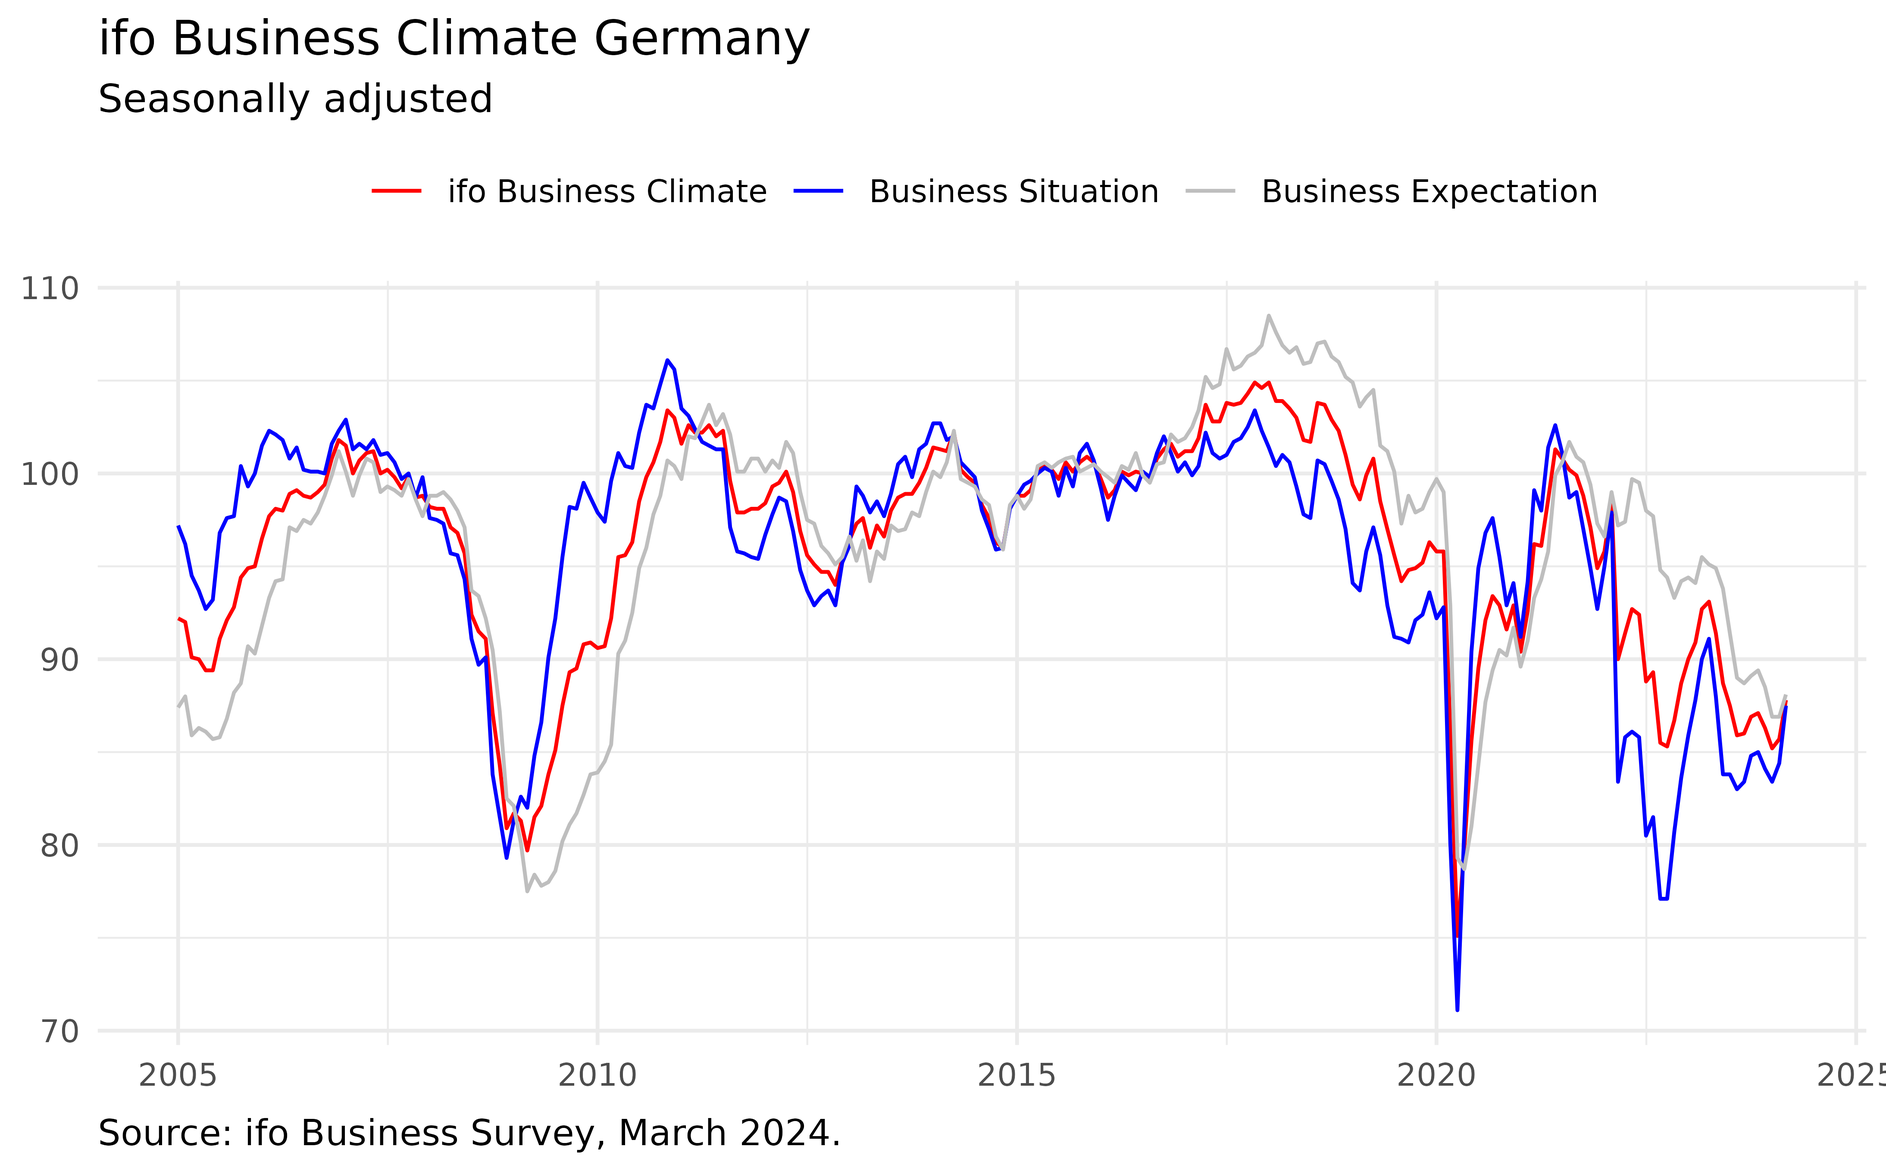
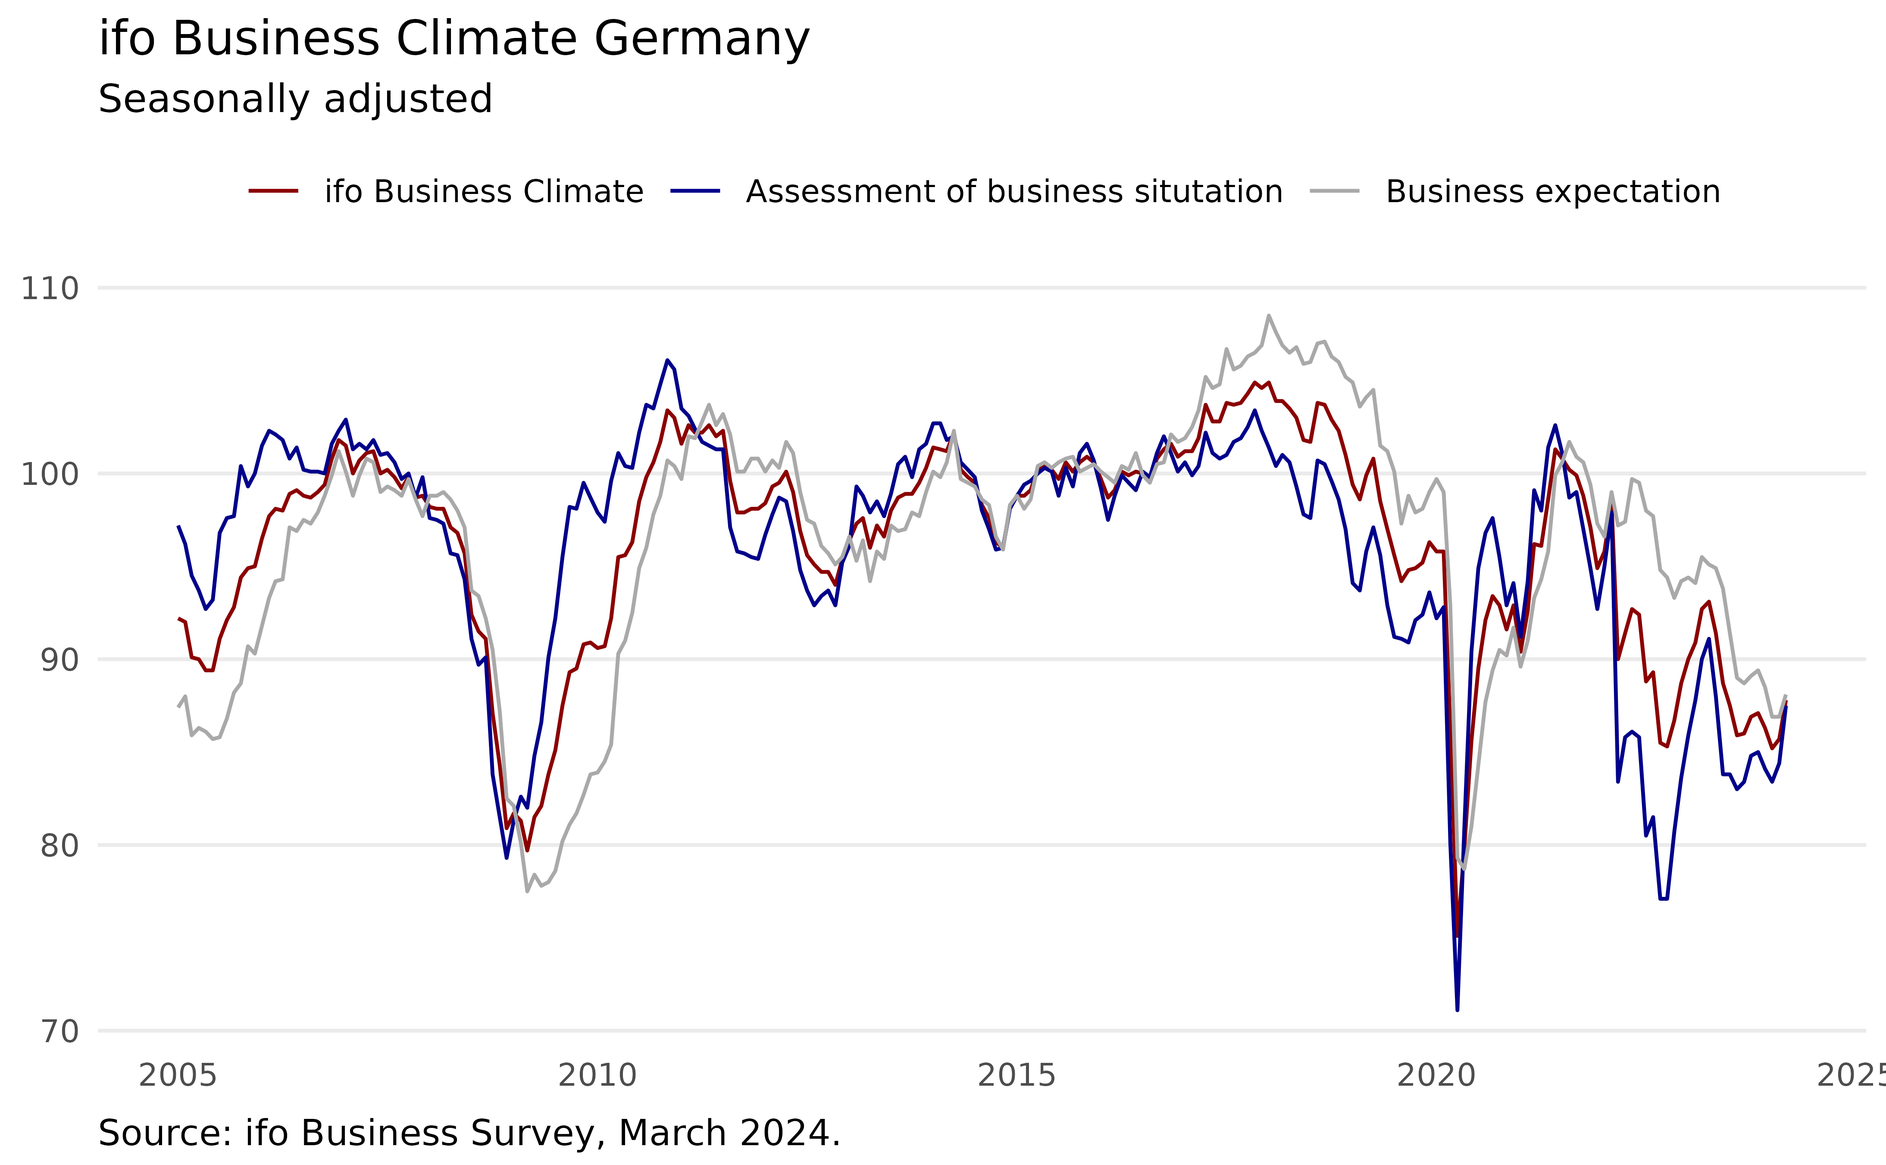
Deploying to gh-pages from @ m-muecke/ifo@aacef5574b08105158f8963b002d48281598b1bf 🚀

diff --git a/articles/publication.html b/articles/publication.html
@@ -80,9 +80,9 @@
 
     
     
-<div class="section level2">
-<h2 id="ifo-business-climate-germany">ifo Business Climate Germany<a class="anchor" aria-label="anchor" href="#ifo-business-climate-germany"></a>
-</h2>
+<div class="section level3">
+<h3 id="ifo-business-climate-germany">ifo Business Climate Germany<a class="anchor" aria-label="anchor" href="#ifo-business-climate-germany"></a>
+</h3>
 <div class="sourceCode" id="cb1"><pre class="downlit sourceCode r">
 <code class="sourceCode R"><span><span class="kw"><a href="https://rdrr.io/r/base/library.html" class="external-link">library</a></span><span class="op">(</span><span class="va"><a href="https://dplyr.tidyverse.org" class="external-link">dplyr</a></span><span class="op">)</span></span>
 <span><span class="kw"><a href="https://rdrr.io/r/base/library.html" class="external-link">library</a></span><span class="op">(</span><span class="va"><a href="https://ggplot2.tidyverse.org" class="external-link">ggplot2</a></span><span class="op">)</span></span>
@@ -92,9 +92,7 @@
 <span></span>
 <span><span class="va">climate</span> <span class="op">|&gt;</span></span>
 <span>  <span class="fu"><a href="https://dplyr.tidyverse.org/reference/select.html" class="external-link">select</a></span><span class="op">(</span><span class="va">yearmonth</span>, <span class="fu"><a href="https://tidyselect.r-lib.org/reference/starts_with.html" class="external-link">ends_with</a></span><span class="op">(</span><span class="st">"index"</span><span class="op">)</span><span class="op">)</span> <span class="op">|&gt;</span></span>
-<span>  <span class="fu">tidyr</span><span class="fu">::</span><span class="fu"><a href="https://tidyr.tidyverse.org/reference/pivot_longer.html" class="external-link">pivot_longer</a></span><span class="op">(</span><span class="op">-</span><span class="va">yearmonth</span>,</span>
-<span>    names_to <span class="op">=</span> <span class="st">"component"</span>, values_to <span class="op">=</span> <span class="st">"value"</span></span>
-<span>  <span class="op">)</span> <span class="op">|&gt;</span></span>
+<span>  <span class="fu">tidyr</span><span class="fu">::</span><span class="fu"><a href="https://tidyr.tidyverse.org/reference/pivot_longer.html" class="external-link">pivot_longer</a></span><span class="op">(</span><span class="op">-</span><span class="va">yearmonth</span>, names_to <span class="op">=</span> <span class="st">"component"</span><span class="op">)</span> <span class="op">|&gt;</span></span>
 <span>  <span class="fu"><a href="https://dplyr.tidyverse.org/reference/mutate.html" class="external-link">mutate</a></span><span class="op">(</span>component <span class="op">=</span> <span class="fu"><a href="https://rdrr.io/r/base/grep.html" class="external-link">sub</a></span><span class="op">(</span><span class="st">"_index"</span>, <span class="st">""</span>, <span class="va">component</span>, fixed <span class="op">=</span> <span class="cn">TRUE</span><span class="op">)</span><span class="op">)</span> <span class="op">|&gt;</span></span>
 <span>  <span class="fu"><a href="https://ggplot2.tidyverse.org/reference/ggplot.html" class="external-link">ggplot</a></span><span class="op">(</span><span class="fu"><a href="https://ggplot2.tidyverse.org/reference/aes.html" class="external-link">aes</a></span><span class="op">(</span>x <span class="op">=</span> <span class="va">yearmonth</span>, y <span class="op">=</span> <span class="va">value</span>, color <span class="op">=</span> <span class="va">component</span><span class="op">)</span><span class="op">)</span> <span class="op">+</span></span>
 <span>  <span class="fu"><a href="https://ggplot2.tidyverse.org/reference/geom_path.html" class="external-link">geom_line</a></span><span class="op">(</span><span class="op">)</span> <span class="op">+</span></span>
@@ -102,7 +100,10 @@
 <span>  <span class="fu"><a href="https://ggplot2.tidyverse.org/reference/theme.html" class="external-link">theme</a></span><span class="op">(</span></span>
 <span>    legend.title <span class="op">=</span> <span class="fu"><a href="https://ggplot2.tidyverse.org/reference/element.html" class="external-link">element_blank</a></span><span class="op">(</span><span class="op">)</span>,</span>
 <span>    legend.position <span class="op">=</span> <span class="st">"top"</span>,</span>
-<span>    plot.caption <span class="op">=</span> <span class="fu"><a href="https://ggplot2.tidyverse.org/reference/element.html" class="external-link">element_text</a></span><span class="op">(</span>hjust <span class="op">=</span> <span class="fl">0</span>, vjust <span class="op">=</span> <span class="fl">0</span>, size <span class="op">=</span> <span class="fl">10</span><span class="op">)</span></span>
+<span>    plot.caption <span class="op">=</span> <span class="fu"><a href="https://ggplot2.tidyverse.org/reference/element.html" class="external-link">element_text</a></span><span class="op">(</span>hjust <span class="op">=</span> <span class="fl">0</span>, vjust <span class="op">=</span> <span class="fl">0</span>, size <span class="op">=</span> <span class="fl">10</span><span class="op">)</span>,</span>
+<span>    panel.grid.major.x <span class="op">=</span> <span class="fu"><a href="https://ggplot2.tidyverse.org/reference/element.html" class="external-link">element_blank</a></span><span class="op">(</span><span class="op">)</span>,</span>
+<span>    panel.grid.minor.x <span class="op">=</span> <span class="fu"><a href="https://ggplot2.tidyverse.org/reference/element.html" class="external-link">element_blank</a></span><span class="op">(</span><span class="op">)</span>,</span>
+<span>    panel.grid.minor.y <span class="op">=</span> <span class="fu"><a href="https://ggplot2.tidyverse.org/reference/element.html" class="external-link">element_blank</a></span><span class="op">(</span><span class="op">)</span></span>
 <span>  <span class="op">)</span> <span class="op">+</span></span>
 <span>  <span class="fu"><a href="https://ggplot2.tidyverse.org/reference/labs.html" class="external-link">labs</a></span><span class="op">(</span></span>
 <span>    title <span class="op">=</span> <span class="st">"ifo Business Climate Germany"</span>, subtitle <span class="op">=</span> <span class="st">"Seasonally adjusted"</span>,</span>
@@ -112,16 +113,71 @@
 <span>    <span class="op">)</span></span>
 <span>  <span class="op">)</span> <span class="op">+</span></span>
 <span>  <span class="fu"><a href="https://ggplot2.tidyverse.org/reference/scale_manual.html" class="external-link">scale_color_manual</a></span><span class="op">(</span></span>
-<span>    values <span class="op">=</span> <span class="fu"><a href="https://rdrr.io/r/base/c.html" class="external-link">c</a></span><span class="op">(</span>climate <span class="op">=</span> <span class="st">"red"</span>, situation <span class="op">=</span> <span class="st">"grey"</span>, expectation <span class="op">=</span> <span class="st">"blue"</span><span class="op">)</span>,</span>
+<span>    values <span class="op">=</span> <span class="fu"><a href="https://rdrr.io/r/base/c.html" class="external-link">c</a></span><span class="op">(</span>climate <span class="op">=</span> <span class="st">"darkred"</span>, situation <span class="op">=</span> <span class="st">"darkgrey"</span>, expectation <span class="op">=</span> <span class="st">"darkblue"</span><span class="op">)</span>,</span>
 <span>    labels <span class="op">=</span> <span class="fu"><a href="https://rdrr.io/r/base/c.html" class="external-link">c</a></span><span class="op">(</span></span>
-<span>      <span class="st">"ifo Business Climate"</span>, <span class="st">"Business Situation"</span>, <span class="st">"Business Expectation"</span></span>
+<span>      <span class="st">"ifo Business Climate"</span>,</span>
+<span>      <span class="st">"Assessment of business situtation"</span>,</span>
+<span>      <span class="st">"Business expectation"</span></span>
 <span>    <span class="op">)</span></span>
 <span>  <span class="op">)</span></span></code></pre></div>
 <p><img src="publication_files/figure-html/setup-1.png" width="2187.5"></p>
 </div>
-<div class="section level2">
-<h2 id="ifo-business-climate-germany-1">ifo Business Climate Germany<a class="anchor" aria-label="anchor" href="#ifo-business-climate-germany-1"></a>
-</h2>
+<div class="section level3">
+<h3 id="ifo-business-climate-by-sector">ifo Business Climate by Sector<a class="anchor" aria-label="anchor" href="#ifo-business-climate-by-sector"></a>
+</h3>
+<div class="sourceCode" id="cb2"><pre class="downlit sourceCode r">
+<code class="sourceCode R"><span><span class="va">sectors</span> <span class="op">&lt;-</span> <span class="fu"><a href="../reference/ifo_climate.html">ifo_climate</a></span><span class="op">(</span><span class="st">"sectors"</span><span class="op">)</span></span>
+<span></span>
+<span><span class="va">sectors</span> <span class="op">|&gt;</span></span>
+<span>  <span class="fu"><a href="https://dplyr.tidyverse.org/reference/select.html" class="external-link">select</a></span><span class="op">(</span><span class="va">yearmonth</span>, <span class="fu"><a href="https://tidyselect.r-lib.org/reference/starts_with.html" class="external-link">ends_with</a></span><span class="op">(</span><span class="st">"balance"</span><span class="op">)</span><span class="op">)</span> <span class="op">|&gt;</span></span>
+<span>  <span class="fu">tidyr</span><span class="fu">::</span><span class="fu"><a href="https://tidyr.tidyverse.org/reference/pivot_longer.html" class="external-link">pivot_longer</a></span><span class="op">(</span><span class="op">-</span><span class="va">yearmonth</span>,</span>
+<span>    names_to <span class="op">=</span> <span class="fu"><a href="https://rdrr.io/r/base/c.html" class="external-link">c</a></span><span class="op">(</span><span class="st">"component"</span>, <span class="st">"sector"</span><span class="op">)</span>, names_pattern <span class="op">=</span> <span class="st">"(.*)_(.*)_balance"</span></span>
+<span>  <span class="op">)</span> <span class="op">|&gt;</span></span>
+<span>  <span class="fu"><a href="https://dplyr.tidyverse.org/reference/filter.html" class="external-link">filter</a></span><span class="op">(</span></span>
+<span>    <span class="va">sector</span> <span class="op"><a href="https://rdrr.io/r/base/match.html" class="external-link">%in%</a></span> <span class="fu"><a href="https://rdrr.io/r/base/c.html" class="external-link">c</a></span><span class="op">(</span><span class="st">"manufacturing"</span>, <span class="st">"services"</span>, <span class="st">"trade"</span>, <span class="st">"construction"</span><span class="op">)</span>,</span>
+<span>    <span class="va">yearmonth</span> <span class="op">&gt;=</span> <span class="st">"2020-01-01"</span></span>
+<span>  <span class="op">)</span> <span class="op">|&gt;</span></span>
+<span>  <span class="fu"><a href="https://dplyr.tidyverse.org/reference/mutate.html" class="external-link">mutate</a></span><span class="op">(</span></span>
+<span>    sector <span class="op">=</span> <span class="fu"><a href="https://rdrr.io/r/base/factor.html" class="external-link">factor</a></span><span class="op">(</span><span class="va">sector</span>,</span>
+<span>      levels <span class="op">=</span> <span class="fu"><a href="https://rdrr.io/r/base/c.html" class="external-link">c</a></span><span class="op">(</span><span class="st">"manufacturing"</span>, <span class="st">"services"</span>, <span class="st">"trade"</span>, <span class="st">"construction"</span><span class="op">)</span></span>
+<span>    <span class="op">)</span></span>
+<span>  <span class="op">)</span> <span class="op">|&gt;</span></span>
+<span>  <span class="fu"><a href="https://ggplot2.tidyverse.org/reference/ggplot.html" class="external-link">ggplot</a></span><span class="op">(</span><span class="fu"><a href="https://ggplot2.tidyverse.org/reference/aes.html" class="external-link">aes</a></span><span class="op">(</span>x <span class="op">=</span> <span class="va">yearmonth</span>, y <span class="op">=</span> <span class="va">value</span>, color <span class="op">=</span> <span class="va">component</span><span class="op">)</span><span class="op">)</span> <span class="op">+</span></span>
+<span>  <span class="fu"><a href="https://ggplot2.tidyverse.org/reference/geom_path.html" class="external-link">geom_line</a></span><span class="op">(</span><span class="op">)</span> <span class="op">+</span></span>
+<span>  <span class="fu"><a href="https://ggplot2.tidyverse.org/reference/facet_wrap.html" class="external-link">facet_wrap</a></span><span class="op">(</span><span class="op">~</span><span class="va">sector</span>,</span>
+<span>    labeller <span class="op">=</span> <span class="fu"><a href="https://ggplot2.tidyverse.org/reference/labeller.html" class="external-link">labeller</a></span><span class="op">(</span>sector <span class="op">=</span> <span class="fu"><a href="https://rdrr.io/r/base/c.html" class="external-link">c</a></span><span class="op">(</span></span>
+<span>      manufacturing <span class="op">=</span> <span class="st">"Manufacturing"</span>,</span>
+<span>      services <span class="op">=</span> <span class="st">"Service Sector"</span>,</span>
+<span>      trade <span class="op">=</span> <span class="st">"Trade"</span>,</span>
+<span>      construction <span class="op">=</span> <span class="st">"Construction"</span></span>
+<span>    <span class="op">)</span><span class="op">)</span></span>
+<span>  <span class="op">)</span> <span class="op">+</span></span>
+<span>  <span class="fu"><a href="https://ggplot2.tidyverse.org/reference/ggtheme.html" class="external-link">theme_minimal</a></span><span class="op">(</span><span class="op">)</span> <span class="op">+</span></span>
+<span>  <span class="fu"><a href="https://ggplot2.tidyverse.org/reference/theme.html" class="external-link">theme</a></span><span class="op">(</span></span>
+<span>    legend.title <span class="op">=</span> <span class="fu"><a href="https://ggplot2.tidyverse.org/reference/element.html" class="external-link">element_blank</a></span><span class="op">(</span><span class="op">)</span>,</span>
+<span>    legend.position <span class="op">=</span> <span class="st">"top"</span>,</span>
+<span>    plot.caption <span class="op">=</span> <span class="fu"><a href="https://ggplot2.tidyverse.org/reference/element.html" class="external-link">element_text</a></span><span class="op">(</span>hjust <span class="op">=</span> <span class="fl">0</span>, vjust <span class="op">=</span> <span class="fl">0</span>, size <span class="op">=</span> <span class="fl">10</span><span class="op">)</span>,</span>
+<span>    panel.grid.major.x <span class="op">=</span> <span class="fu"><a href="https://ggplot2.tidyverse.org/reference/element.html" class="external-link">element_blank</a></span><span class="op">(</span><span class="op">)</span>,</span>
+<span>    panel.grid.minor.x <span class="op">=</span> <span class="fu"><a href="https://ggplot2.tidyverse.org/reference/element.html" class="external-link">element_blank</a></span><span class="op">(</span><span class="op">)</span>,</span>
+<span>    panel.grid.minor.y <span class="op">=</span> <span class="fu"><a href="https://ggplot2.tidyverse.org/reference/element.html" class="external-link">element_blank</a></span><span class="op">(</span><span class="op">)</span></span>
+<span>  <span class="op">)</span> <span class="op">+</span></span>
+<span>  <span class="fu"><a href="https://ggplot2.tidyverse.org/reference/labs.html" class="external-link">labs</a></span><span class="op">(</span></span>
+<span>    title <span class="op">=</span> <span class="st">"ifo Business Climate, Business Situation, and Expectations by Sector"</span>,</span>
+<span>    subtitle <span class="op">=</span> <span class="st">"Balances, seasonally adjusted"</span>,</span>
+<span>    y <span class="op">=</span> <span class="cn">NULL</span>, x <span class="op">=</span> <span class="cn">NULL</span>,</span>
+<span>    caption <span class="op">=</span> <span class="fu"><a href="https://rdrr.io/r/base/sprintf.html" class="external-link">sprintf</a></span><span class="op">(</span></span>
+<span>      <span class="st">"Source: ifo Business Survey, %s."</span>, <span class="fu"><a href="https://rdrr.io/r/base/format.html" class="external-link">format</a></span><span class="op">(</span><span class="fu"><a href="https://rdrr.io/r/base/Extremes.html" class="external-link">max</a></span><span class="op">(</span><span class="va">sectors</span><span class="op">$</span><span class="va">yearmonth</span><span class="op">)</span>, <span class="st">"%B %Y"</span><span class="op">)</span></span>
+<span>    <span class="op">)</span></span>
+<span>  <span class="op">)</span> <span class="op">+</span></span>
+<span>  <span class="fu"><a href="https://ggplot2.tidyverse.org/reference/scale_manual.html" class="external-link">scale_color_manual</a></span><span class="op">(</span></span>
+<span>    values <span class="op">=</span> <span class="fu"><a href="https://rdrr.io/r/base/c.html" class="external-link">c</a></span><span class="op">(</span>climate <span class="op">=</span> <span class="st">"darkred"</span>, situation <span class="op">=</span> <span class="st">"darkgrey"</span>, expectation <span class="op">=</span> <span class="st">"darkblue"</span><span class="op">)</span>,</span>
+<span>    labels <span class="op">=</span> <span class="fu"><a href="https://rdrr.io/r/base/c.html" class="external-link">c</a></span><span class="op">(</span></span>
+<span>      <span class="st">"ifo Business Climate"</span>,</span>
+<span>      <span class="st">"Assessment of business situtation"</span>,</span>
+<span>      <span class="st">"Business expectation"</span></span>
+<span>    <span class="op">)</span></span>
+<span>  <span class="op">)</span></span></code></pre></div>
+<p><img src="publication_files/figure-html/unnamed-chunk-2-1.png" width="700"></p>
 </div>
   </main><aside class="col-md-3"><nav id="toc"><h2>On this page</h2>
     </nav></aside>

diff --git a/index.html b/index.html
@@ -111,9 +111,7 @@
 <span></span>
 <span><span class="va">climate</span> <span class="op">|&gt;</span></span>
 <span>  <span class="fu"><a href="https://dplyr.tidyverse.org/reference/select.html" class="external-link">select</a></span><span class="op">(</span><span class="va">yearmonth</span>, <span class="fu"><a href="https://tidyselect.r-lib.org/reference/starts_with.html" class="external-link">ends_with</a></span><span class="op">(</span><span class="st">"index"</span><span class="op">)</span><span class="op">)</span> <span class="op">|&gt;</span></span>
-<span>  <span class="fu">tidyr</span><span class="fu">::</span><span class="fu"><a href="https://tidyr.tidyverse.org/reference/pivot_longer.html" class="external-link">pivot_longer</a></span><span class="op">(</span><span class="op">-</span><span class="va">yearmonth</span>,</span>
-<span>    names_to <span class="op">=</span> <span class="st">"component"</span>, values_to <span class="op">=</span> <span class="st">"value"</span></span>
-<span>  <span class="op">)</span> <span class="op">|&gt;</span></span>
+<span>  <span class="fu">tidyr</span><span class="fu">::</span><span class="fu"><a href="https://tidyr.tidyverse.org/reference/pivot_longer.html" class="external-link">pivot_longer</a></span><span class="op">(</span><span class="op">-</span><span class="va">yearmonth</span>, names_to <span class="op">=</span> <span class="st">"component"</span><span class="op">)</span> <span class="op">|&gt;</span></span>
 <span>  <span class="fu"><a href="https://dplyr.tidyverse.org/reference/mutate.html" class="external-link">mutate</a></span><span class="op">(</span>component <span class="op">=</span> <span class="fu"><a href="https://rdrr.io/r/base/grep.html" class="external-link">sub</a></span><span class="op">(</span><span class="st">"_index"</span>, <span class="st">""</span>, <span class="va">component</span>, fixed <span class="op">=</span> <span class="cn">TRUE</span><span class="op">)</span><span class="op">)</span> <span class="op">|&gt;</span></span>
 <span>  <span class="fu"><a href="https://ggplot2.tidyverse.org/reference/ggplot.html" class="external-link">ggplot</a></span><span class="op">(</span><span class="fu"><a href="https://ggplot2.tidyverse.org/reference/aes.html" class="external-link">aes</a></span><span class="op">(</span>x <span class="op">=</span> <span class="va">yearmonth</span>, y <span class="op">=</span> <span class="va">value</span>, color <span class="op">=</span> <span class="va">component</span><span class="op">)</span><span class="op">)</span> <span class="op">+</span></span>
 <span>  <span class="fu"><a href="https://ggplot2.tidyverse.org/reference/geom_path.html" class="external-link">geom_line</a></span><span class="op">(</span><span class="op">)</span> <span class="op">+</span></span>
